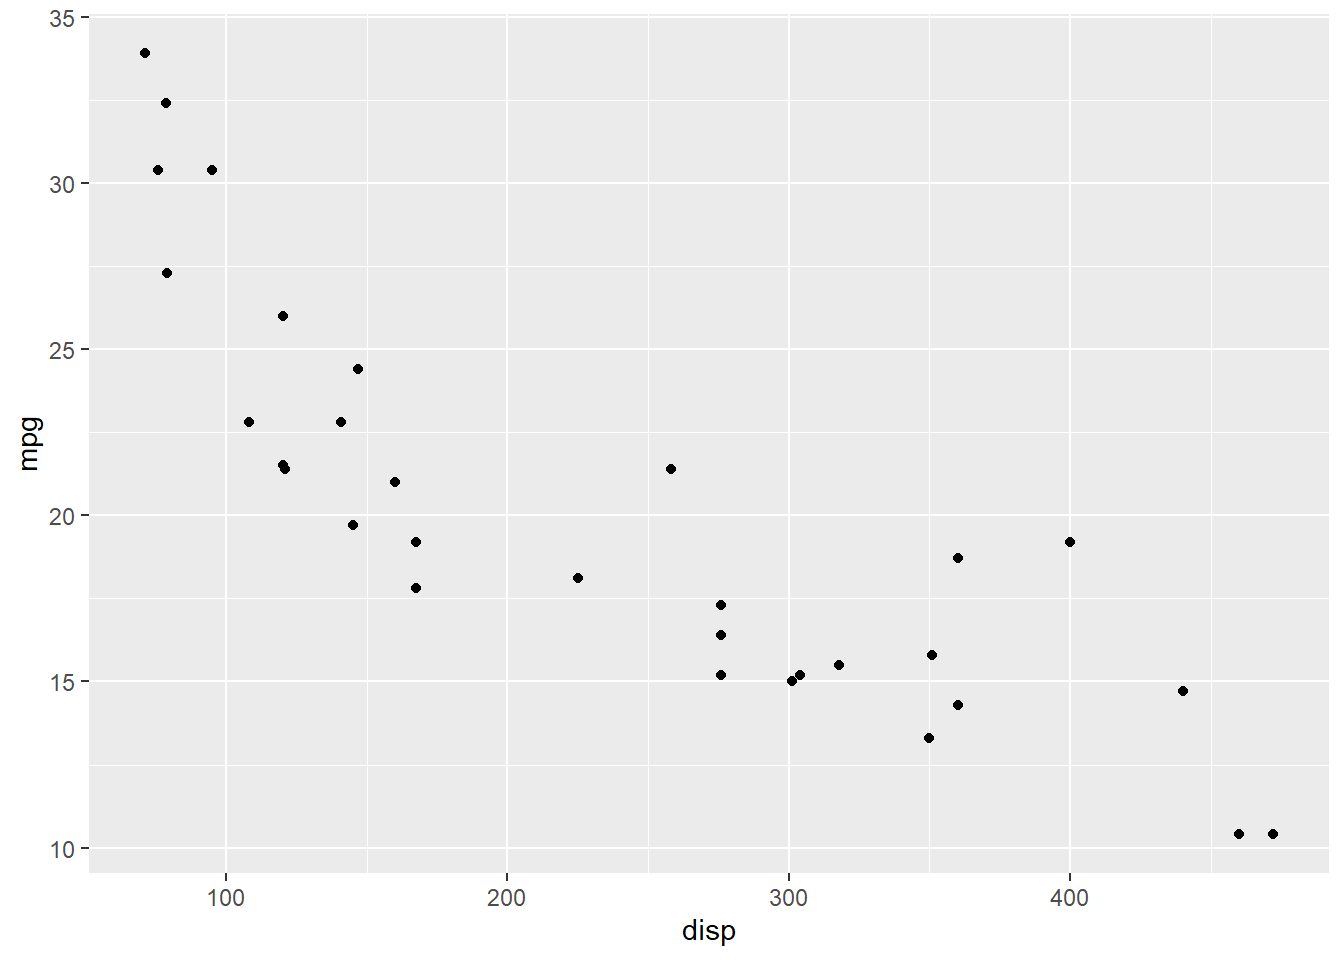
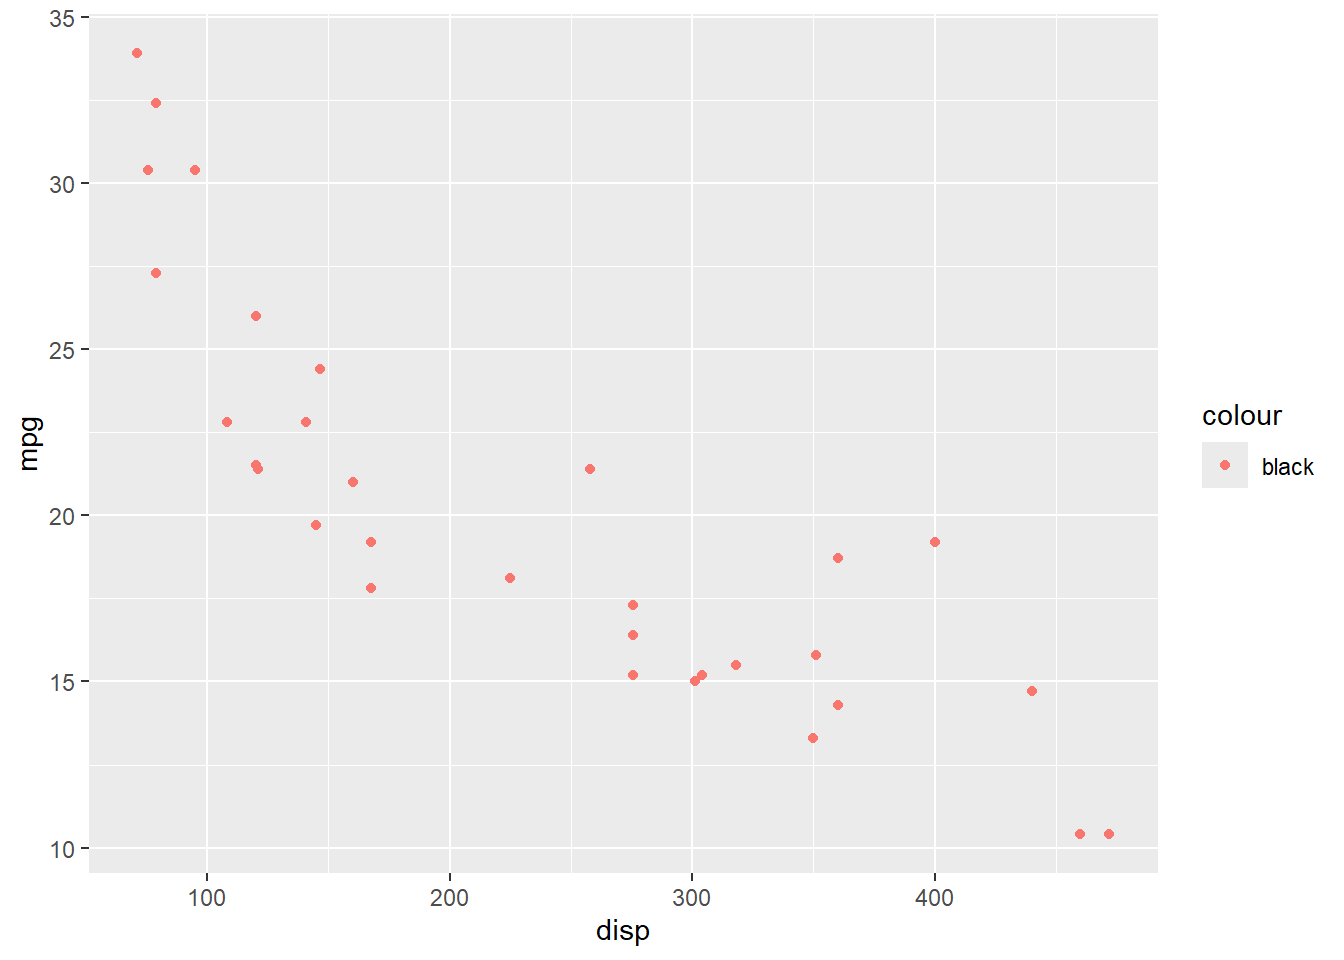
gg

diff --git a/FirstQuatro.html b/FirstQuatro.html
@@ -141,6 +141,7 @@ pre > code.sourceCode > span > a:first-child::before { text-decoration: underlin
 ✖ dplyr::lag()    masks stats::lag()
 ℹ Use the conflicted package (&lt;http://conflicted.r-lib.org/&gt;) to force all conflicts to become errors</code></pre>
 </div>
+<div class="code-copy-outer-scaffold"><div class="sourceCode cell-code" id="cb11"><pre class="sourceCode r code-with-copy"><code class="sourceCode r"><span id="cb11-1"><a href="#cb11-1" aria-hidden="true" tabindex="-1"></a><span class="fu">library</span>(ggplot2)</span></code></pre></div><button title="Copy to Clipboard" class="code-copy-button"><i class="bi"></i></button></div>
 </div>
 <section id="ny-txt" class="level2">
 <h2 class="anchored" data-anchor-id="ny-txt">Ny Txt</h2>
@@ -148,57 +149,67 @@ pre > code.sourceCode > span > a:first-child::before { text-decoration: underlin
 <section id="text" class="level2">
 <h2 class="anchored" data-anchor-id="text">Text</h2>
 <div class="cell">
-<div class="code-copy-outer-scaffold"><div class="sourceCode cell-code" id="cb11"><pre class="sourceCode r code-with-copy"><code class="sourceCode r"><span id="cb11-1"><a href="#cb11-1" aria-hidden="true" tabindex="-1"></a><span class="dv">1</span><span class="sc">+</span><span class="dv">1</span></span></code></pre></div><button title="Copy to Clipboard" class="code-copy-button"><i class="bi"></i></button></div>
+<div class="code-copy-outer-scaffold"><div class="sourceCode cell-code" id="cb12"><pre class="sourceCode r code-with-copy"><code class="sourceCode r"><span id="cb12-1"><a href="#cb12-1" aria-hidden="true" tabindex="-1"></a><span class="dv">1</span><span class="sc">+</span><span class="dv">1</span></span></code></pre></div><button title="Copy to Clipboard" class="code-copy-button"><i class="bi"></i></button></div>
 <div class="cell-output cell-output-stdout">
 <pre><code>[1] 2</code></pre>
 </div>
 </div>
 <div class="cell">
-<div class="code-copy-outer-scaffold"><div class="sourceCode cell-code" id="cb13"><pre class="sourceCode r code-with-copy"><code class="sourceCode r"><span id="cb13-1"><a href="#cb13-1" aria-hidden="true" tabindex="-1"></a>url <span class="ot">&lt;-</span> <span class="st">"https://www.nav.no/_/attachment/download/c0985215-d99f-4f61-956d-302034bcd0ec:0d32f598ec46743086dddc992a651e9b5ccb8d94/HL301%20Helt%20ledige.%20Fylke%20kommune.%20August%202026.%20CSV.csv"</span></span>
-<span id="cb13-2"><a href="#cb13-2" aria-hidden="true" tabindex="-1"></a></span>
-<span id="cb13-3"><a href="#cb13-3" aria-hidden="true" tabindex="-1"></a>ledighet <span class="ot">&lt;-</span> <span class="fu">read_delim</span>(url, <span class="at">delim =</span> <span class="st">";"</span>, </span>
-<span id="cb13-4"><a href="#cb13-4" aria-hidden="true" tabindex="-1"></a>                        <span class="at">locale =</span> <span class="fu">locale</span>(<span class="at">encoding =</span> <span class="st">"Latin1"</span>),</span>
-<span id="cb13-5"><a href="#cb13-5" aria-hidden="true" tabindex="-1"></a>                        <span class="at">show_col_types =</span> <span class="cn">FALSE</span>) <span class="sc">%&gt;%</span> </span>
-<span id="cb13-6"><a href="#cb13-6" aria-hidden="true" tabindex="-1"></a>  <span class="fu">mutate</span>(</span>
-<span id="cb13-7"><a href="#cb13-7" aria-hidden="true" tabindex="-1"></a>    <span class="st">`</span><span class="at">Antall helt ledige</span><span class="st">`</span> <span class="ot">=</span> <span class="fu">na_if</span>(<span class="st">`</span><span class="at">Antall helt ledige</span><span class="st">`</span>, <span class="st">"*"</span>) <span class="sc">%&gt;%</span> <span class="fu">as.numeric</span>(),</span>
-<span id="cb13-8"><a href="#cb13-8" aria-hidden="true" tabindex="-1"></a>    <span class="st">`</span><span class="at">Helt ledige i prosent av arbeidsstyrken</span><span class="st">`</span> <span class="ot">=</span> <span class="fu">na_if</span>(<span class="st">`</span><span class="at">Helt ledige i prosent av arbeidsstyrken</span><span class="st">`</span>, <span class="st">"*"</span>) <span class="sc">%&gt;%</span> </span>
-<span id="cb13-9"><a href="#cb13-9" aria-hidden="true" tabindex="-1"></a>      <span class="fu">str_replace</span>(<span class="st">","</span>, <span class="st">"."</span>) <span class="sc">%&gt;%</span> <span class="fu">as.numeric</span>()</span>
-<span id="cb13-10"><a href="#cb13-10" aria-hidden="true" tabindex="-1"></a>  )</span>
-<span id="cb13-11"><a href="#cb13-11" aria-hidden="true" tabindex="-1"></a></span>
-<span id="cb13-12"><a href="#cb13-12" aria-hidden="true" tabindex="-1"></a>rogaland <span class="ot">&lt;-</span> ledighet <span class="sc">%&gt;%</span> <span class="fu">filter</span>(Fylkenavn <span class="sc">==</span> <span class="st">"Rogaland"</span>)</span></code></pre></div><button title="Copy to Clipboard" class="code-copy-button"><i class="bi"></i></button></div>
+<div class="code-copy-outer-scaffold"><div class="sourceCode cell-code" id="cb14"><pre class="sourceCode r code-with-copy"><code class="sourceCode r"><span id="cb14-1"><a href="#cb14-1" aria-hidden="true" tabindex="-1"></a>url <span class="ot">&lt;-</span> <span class="st">"https://www.nav.no/_/attachment/download/c0985215-d99f-4f61-956d-302034bcd0ec:0d32f598ec46743086dddc992a651e9b5ccb8d94/HL301%20Helt%20ledige.%20Fylke%20kommune.%20August%202026.%20CSV.csv"</span></span>
+<span id="cb14-2"><a href="#cb14-2" aria-hidden="true" tabindex="-1"></a></span>
+<span id="cb14-3"><a href="#cb14-3" aria-hidden="true" tabindex="-1"></a>ledighet <span class="ot">&lt;-</span> <span class="fu">read_delim</span>(url, <span class="at">delim =</span> <span class="st">";"</span>, </span>
+<span id="cb14-4"><a href="#cb14-4" aria-hidden="true" tabindex="-1"></a>                        <span class="at">locale =</span> <span class="fu">locale</span>(<span class="at">encoding =</span> <span class="st">"Latin1"</span>),</span>
+<span id="cb14-5"><a href="#cb14-5" aria-hidden="true" tabindex="-1"></a>                        <span class="at">show_col_types =</span> <span class="cn">FALSE</span>) <span class="sc">%&gt;%</span> </span>
+<span id="cb14-6"><a href="#cb14-6" aria-hidden="true" tabindex="-1"></a>  <span class="fu">mutate</span>(</span>
+<span id="cb14-7"><a href="#cb14-7" aria-hidden="true" tabindex="-1"></a>    <span class="st">`</span><span class="at">Antall helt ledige</span><span class="st">`</span> <span class="ot">=</span> <span class="fu">na_if</span>(<span class="st">`</span><span class="at">Antall helt ledige</span><span class="st">`</span>, <span class="st">"*"</span>) <span class="sc">%&gt;%</span> <span class="fu">as.numeric</span>(),</span>
+<span id="cb14-8"><a href="#cb14-8" aria-hidden="true" tabindex="-1"></a>    <span class="st">`</span><span class="at">Helt ledige i prosent av arbeidsstyrken</span><span class="st">`</span> <span class="ot">=</span> <span class="fu">na_if</span>(<span class="st">`</span><span class="at">Helt ledige i prosent av arbeidsstyrken</span><span class="st">`</span>, <span class="st">"*"</span>) <span class="sc">%&gt;%</span> </span>
+<span id="cb14-9"><a href="#cb14-9" aria-hidden="true" tabindex="-1"></a>      <span class="fu">str_replace</span>(<span class="st">","</span>, <span class="st">"."</span>) <span class="sc">%&gt;%</span> <span class="fu">as.numeric</span>()</span>
+<span id="cb14-10"><a href="#cb14-10" aria-hidden="true" tabindex="-1"></a>  )</span>
+<span id="cb14-11"><a href="#cb14-11" aria-hidden="true" tabindex="-1"></a></span>
+<span id="cb14-12"><a href="#cb14-12" aria-hidden="true" tabindex="-1"></a>rogaland <span class="ot">&lt;-</span> ledighet <span class="sc">%&gt;%</span> <span class="fu">filter</span>(Fylkenavn <span class="sc">==</span> <span class="st">"Rogaland"</span>)</span></code></pre></div><button title="Copy to Clipboard" class="code-copy-button"><i class="bi"></i></button></div>
 </div>
 <div class="cell">
-<div class="code-copy-outer-scaffold"><div class="sourceCode cell-code" id="cb14"><pre class="sourceCode r code-with-copy"><code class="sourceCode r"><span id="cb14-1"><a href="#cb14-1" aria-hidden="true" tabindex="-1"></a><span class="fu">view</span>(rogaland)</span></code></pre></div><button title="Copy to Clipboard" class="code-copy-button"><i class="bi"></i></button></div>
+<div class="code-copy-outer-scaffold"><div class="sourceCode cell-code" id="cb15"><pre class="sourceCode r code-with-copy"><code class="sourceCode r"><span id="cb15-1"><a href="#cb15-1" aria-hidden="true" tabindex="-1"></a><span class="fu">view</span>(rogaland)</span></code></pre></div><button title="Copy to Clipboard" class="code-copy-button"><i class="bi"></i></button></div>
 </div>
 <div class="cell">
-<div class="code-copy-outer-scaffold"><div class="sourceCode cell-code" id="cb15"><pre class="sourceCode r code-with-copy"><code class="sourceCode r"><span id="cb15-1"><a href="#cb15-1" aria-hidden="true" tabindex="-1"></a>rogaland_t <span class="ot">&lt;-</span> rogaland <span class="sc">%&gt;%</span> </span>
-<span id="cb15-2"><a href="#cb15-2" aria-hidden="true" tabindex="-1"></a>  <span class="fu">column_to_rownames</span>(<span class="st">"Kommunenavn"</span>) <span class="sc">%&gt;%</span> </span>
-<span id="cb15-3"><a href="#cb15-3" aria-hidden="true" tabindex="-1"></a>  <span class="fu">t</span>() <span class="sc">%&gt;%</span> </span>
-<span id="cb15-4"><a href="#cb15-4" aria-hidden="true" tabindex="-1"></a>  <span class="fu">as_tibble</span>(<span class="at">rownames =</span> <span class="st">"variabel"</span>)</span></code></pre></div><button title="Copy to Clipboard" class="code-copy-button"><i class="bi"></i></button></div>
+<div class="code-copy-outer-scaffold"><div class="sourceCode cell-code" id="cb16"><pre class="sourceCode r code-with-copy"><code class="sourceCode r"><span id="cb16-1"><a href="#cb16-1" aria-hidden="true" tabindex="-1"></a>rogaland_t <span class="ot">&lt;-</span> rogaland <span class="sc">%&gt;%</span> </span>
+<span id="cb16-2"><a href="#cb16-2" aria-hidden="true" tabindex="-1"></a>  <span class="fu">column_to_rownames</span>(<span class="st">"Kommunenavn"</span>) <span class="sc">%&gt;%</span> </span>
+<span id="cb16-3"><a href="#cb16-3" aria-hidden="true" tabindex="-1"></a>  <span class="fu">t</span>() <span class="sc">%&gt;%</span> </span>
+<span id="cb16-4"><a href="#cb16-4" aria-hidden="true" tabindex="-1"></a>  <span class="fu">as_tibble</span>(<span class="at">rownames =</span> <span class="st">"variabel"</span>)</span></code></pre></div><button title="Copy to Clipboard" class="code-copy-button"><i class="bi"></i></button></div>
 </div>
 <div class="cell">
-<div class="code-copy-outer-scaffold"><div class="sourceCode cell-code" id="cb16"><pre class="sourceCode r code-with-copy"><code class="sourceCode r"><span id="cb16-1"><a href="#cb16-1" aria-hidden="true" tabindex="-1"></a><span class="fu">library</span>(tidyverse)</span>
-<span id="cb16-2"><a href="#cb16-2" aria-hidden="true" tabindex="-1"></a></span>
-<span id="cb16-3"><a href="#cb16-3" aria-hidden="true" tabindex="-1"></a>mtcars <span class="sc">%&gt;%</span> </span>
-<span id="cb16-4"><a href="#cb16-4" aria-hidden="true" tabindex="-1"></a>  <span class="fu">rownames_to_column</span>(<span class="st">"model"</span>) <span class="sc">%&gt;%</span> </span>
-<span id="cb16-5"><a href="#cb16-5" aria-hidden="true" tabindex="-1"></a>  <span class="fu">filter</span>(model <span class="sc">%in%</span> <span class="fu">c</span>(<span class="st">"Lotus Europa"</span>, <span class="st">"Maserati Bora"</span>, <span class="st">"Porsche 914.2"</span>)) <span class="sc">%&gt;%</span> </span>
-<span id="cb16-6"><a href="#cb16-6" aria-hidden="true" tabindex="-1"></a>  <span class="fu">pull</span>(mpg)</span></code></pre></div><button title="Copy to Clipboard" class="code-copy-button"><i class="bi"></i></button></div>
+<div class="code-copy-outer-scaffold"><div class="sourceCode cell-code" id="cb17"><pre class="sourceCode r code-with-copy"><code class="sourceCode r"><span id="cb17-1"><a href="#cb17-1" aria-hidden="true" tabindex="-1"></a><span class="fu">library</span>(tidyverse)</span>
+<span id="cb17-2"><a href="#cb17-2" aria-hidden="true" tabindex="-1"></a></span>
+<span id="cb17-3"><a href="#cb17-3" aria-hidden="true" tabindex="-1"></a>mtcars <span class="sc">%&gt;%</span> </span>
+<span id="cb17-4"><a href="#cb17-4" aria-hidden="true" tabindex="-1"></a>  <span class="fu">rownames_to_column</span>(<span class="st">"model"</span>) <span class="sc">%&gt;%</span> </span>
+<span id="cb17-5"><a href="#cb17-5" aria-hidden="true" tabindex="-1"></a>  <span class="fu">filter</span>(model <span class="sc">%in%</span> <span class="fu">c</span>(<span class="st">"Lotus Europa"</span>, <span class="st">"Maserati Bora"</span>, <span class="st">"Porsche 914.2"</span>)) <span class="sc">%&gt;%</span> </span>
+<span id="cb17-6"><a href="#cb17-6" aria-hidden="true" tabindex="-1"></a>  <span class="fu">pull</span>(mpg)</span></code></pre></div><button title="Copy to Clipboard" class="code-copy-button"><i class="bi"></i></button></div>
 <div class="cell-output cell-output-stdout">
 <pre><code>[1] 30.4 15.0</code></pre>
 </div>
 </div>
 <div class="cell">
-<div class="code-copy-outer-scaffold"><div class="sourceCode cell-code" id="cb18"><pre class="sourceCode r code-with-copy"><code class="sourceCode r"><span id="cb18-1"><a href="#cb18-1" aria-hidden="true" tabindex="-1"></a><span class="fu">view</span>(rogaland_t)</span></code></pre></div><button title="Copy to Clipboard" class="code-copy-button"><i class="bi"></i></button></div>
+<div class="code-copy-outer-scaffold"><div class="sourceCode cell-code" id="cb19"><pre class="sourceCode r code-with-copy"><code class="sourceCode r"><span id="cb19-1"><a href="#cb19-1" aria-hidden="true" tabindex="-1"></a><span class="fu">view</span>(rogaland_t)</span></code></pre></div><button title="Copy to Clipboard" class="code-copy-button"><i class="bi"></i></button></div>
 </div>
-<div class="cell">
-<div class="code-copy-outer-scaffold"><div class="sourceCode cell-code" id="cb19"><pre class="sourceCode r code-with-copy"><code class="sourceCode r"><span id="cb19-1"><a href="#cb19-1" aria-hidden="true" tabindex="-1"></a><span class="fu">library</span>(ggplot2)</span></code></pre></div><button title="Copy to Clipboard" class="code-copy-button"><i class="bi"></i></button></div>
-</div>
-<div class="cell">
-<div class="code-copy-outer-scaffold"><div class="sourceCode cell-code" id="cb20"><pre class="sourceCode r code-with-copy"><code class="sourceCode r"><span id="cb20-1"><a href="#cb20-1" aria-hidden="true" tabindex="-1"></a><span class="fu">ggplot</span>(</span>
-<span id="cb20-2"><a href="#cb20-2" aria-hidden="true" tabindex="-1"></a>  <span class="at">data =</span> mtcars, </span>
-<span id="cb20-3"><a href="#cb20-3" aria-hidden="true" tabindex="-1"></a>  <span class="at">mapping =</span> <span class="fu">aes</span>(<span class="at">x =</span> disp, <span class="at">y =</span> mpg)</span>
-<span id="cb20-4"><a href="#cb20-4" aria-hidden="true" tabindex="-1"></a>)<span class="sc">+</span></span>
-<span id="cb20-5"><a href="#cb20-5" aria-hidden="true" tabindex="-1"></a>  <span class="fu">geom_point</span>()</span></code></pre></div><button title="Copy to Clipboard" class="code-copy-button"><i class="bi"></i></button></div>
+<pre><code>
+
+
+::: {.cell}
+
+:::
+
+
+
+
+
+::: {.cell}
+
+```{.r .cell-code}
+ggplot(
+  data = mtcars, 
+  mapping = aes(x = disp, y = mpg)
+)+
+  geom_point()</code></pre>
 <div class="cell-output-display">
 <div>
 <figure class="figure">
@@ -206,16 +217,75 @@ pre > code.sourceCode > span > a:first-child::before { text-decoration: underlin
 </figure>
 </div>
 </div>
-</div>
+<p>:::</p>
 <div class="cell">
 <div class="code-copy-outer-scaffold"><div class="sourceCode cell-code" id="cb21"><pre class="sourceCode r code-with-copy"><code class="sourceCode r"><span id="cb21-1"><a href="#cb21-1" aria-hidden="true" tabindex="-1"></a><span class="fu">ggplot</span>(</span>
 <span id="cb21-2"><a href="#cb21-2" aria-hidden="true" tabindex="-1"></a>  <span class="at">data =</span> mtcars,</span>
 <span id="cb21-3"><a href="#cb21-3" aria-hidden="true" tabindex="-1"></a>  <span class="at">mapping =</span> <span class="fu">aes</span>(<span class="at">x =</span> disp, <span class="at">y =</span> mpg)</span>
-<span id="cb21-4"><a href="#cb21-4" aria-hidden="true" tabindex="-1"></a>)<span class="sc">+</span> <span class="fu">geom_point</span>(<span class="at">colour =</span> <span class="st">"black"</span>)</span></code></pre></div><button title="Copy to Clipboard" class="code-copy-button"><i class="bi"></i></button></div>
+<span id="cb21-4"><a href="#cb21-4" aria-hidden="true" tabindex="-1"></a>)<span class="sc">+</span> <span class="fu">geom_point</span>(</span>
+<span id="cb21-5"><a href="#cb21-5" aria-hidden="true" tabindex="-1"></a>  <span class="at">mapping =</span> <span class="fu">aes</span>(<span class="at">colour =</span> <span class="st">"black"</span>)</span>
+<span id="cb21-6"><a href="#cb21-6" aria-hidden="true" tabindex="-1"></a>)</span></code></pre></div><button title="Copy to Clipboard" class="code-copy-button"><i class="bi"></i></button></div>
 <div class="cell-output-display">
 <div>
 <figure class="figure">
 <p><img src="FirstQuatro_files/figure-html/unnamed-chunk-10-1.png" class="img-fluid figure-img" width="672"></p>
+</figure>
+</div>
+</div>
+</div>
+<pre><code>
+
+::: {.cell}
+
+```{.r .cell-code}
+mtcars</code></pre>
+<div class="cell-output cell-output-stdout">
+<pre><code>                     mpg cyl  disp  hp drat    wt  qsec vs am gear carb
+Mazda RX4           21.0   6 160.0 110 3.90 2.620 16.46  0  1    4    4
+Mazda RX4 Wag       21.0   6 160.0 110 3.90 2.875 17.02  0  1    4    4
+Datsun 710          22.8   4 108.0  93 3.85 2.320 18.61  1  1    4    1
+Hornet 4 Drive      21.4   6 258.0 110 3.08 3.215 19.44  1  0    3    1
+Hornet Sportabout   18.7   8 360.0 175 3.15 3.440 17.02  0  0    3    2
+Valiant             18.1   6 225.0 105 2.76 3.460 20.22  1  0    3    1
+Duster 360          14.3   8 360.0 245 3.21 3.570 15.84  0  0    3    4
+Merc 240D           24.4   4 146.7  62 3.69 3.190 20.00  1  0    4    2
+Merc 230            22.8   4 140.8  95 3.92 3.150 22.90  1  0    4    2
+Merc 280            19.2   6 167.6 123 3.92 3.440 18.30  1  0    4    4
+Merc 280C           17.8   6 167.6 123 3.92 3.440 18.90  1  0    4    4
+Merc 450SE          16.4   8 275.8 180 3.07 4.070 17.40  0  0    3    3
+Merc 450SL          17.3   8 275.8 180 3.07 3.730 17.60  0  0    3    3
+Merc 450SLC         15.2   8 275.8 180 3.07 3.780 18.00  0  0    3    3
+Cadillac Fleetwood  10.4   8 472.0 205 2.93 5.250 17.98  0  0    3    4
+Lincoln Continental 10.4   8 460.0 215 3.00 5.424 17.82  0  0    3    4
+Chrysler Imperial   14.7   8 440.0 230 3.23 5.345 17.42  0  0    3    4
+Fiat 128            32.4   4  78.7  66 4.08 2.200 19.47  1  1    4    1
+Honda Civic         30.4   4  75.7  52 4.93 1.615 18.52  1  1    4    2
+Toyota Corolla      33.9   4  71.1  65 4.22 1.835 19.90  1  1    4    1
+Toyota Corona       21.5   4 120.1  97 3.70 2.465 20.01  1  0    3    1
+Dodge Challenger    15.5   8 318.0 150 2.76 3.520 16.87  0  0    3    2
+AMC Javelin         15.2   8 304.0 150 3.15 3.435 17.30  0  0    3    2
+Camaro Z28          13.3   8 350.0 245 3.73 3.840 15.41  0  0    3    4
+Pontiac Firebird    19.2   8 400.0 175 3.08 3.845 17.05  0  0    3    2
+Fiat X1-9           27.3   4  79.0  66 4.08 1.935 18.90  1  1    4    1
+Porsche 914-2       26.0   4 120.3  91 4.43 2.140 16.70  0  1    5    2
+Lotus Europa        30.4   4  95.1 113 3.77 1.513 16.90  1  1    5    2
+Ford Pantera L      15.8   8 351.0 264 4.22 3.170 14.50  0  1    5    4
+Ferrari Dino        19.7   6 145.0 175 3.62 2.770 15.50  0  1    5    6
+Maserati Bora       15.0   8 301.0 335 3.54 3.570 14.60  0  1    5    8
+Volvo 142E          21.4   4 121.0 109 4.11 2.780 18.60  1  1    4    2</code></pre>
+</div>
+<p>:::</p>
+<div class="cell">
+<div class="code-copy-outer-scaffold"><div class="sourceCode cell-code" id="cb24"><pre class="sourceCode r code-with-copy"><code class="sourceCode r"><span id="cb24-1"><a href="#cb24-1" aria-hidden="true" tabindex="-1"></a><span class="fu">ggplot</span>(</span>
+<span id="cb24-2"><a href="#cb24-2" aria-hidden="true" tabindex="-1"></a>  <span class="at">data =</span> mtcars,</span>
+<span id="cb24-3"><a href="#cb24-3" aria-hidden="true" tabindex="-1"></a>  <span class="at">mapping =</span> <span class="fu">aes</span>(<span class="at">x =</span> disp, <span class="at">y =</span> mpg)</span>
+<span id="cb24-4"><a href="#cb24-4" aria-hidden="true" tabindex="-1"></a>)<span class="sc">+</span> <span class="fu">geom_point</span>(</span>
+<span id="cb24-5"><a href="#cb24-5" aria-hidden="true" tabindex="-1"></a>  <span class="at">mapping =</span> <span class="fu">aes</span>(<span class="at">colour =</span> hp, <span class="at">size =</span> wt, <span class="at">shape =</span> <span class="fu">factor</span>(cyl))</span>
+<span id="cb24-6"><a href="#cb24-6" aria-hidden="true" tabindex="-1"></a>)</span></code></pre></div><button title="Copy to Clipboard" class="code-copy-button"><i class="bi"></i></button></div>
+<div class="cell-output-display">
+<div>
+<figure class="figure">
+<p><img src="FirstQuatro_files/figure-html/unnamed-chunk-12-1.png" class="img-fluid figure-img" width="672"></p>
 </figure>
 </div>
 </div>
